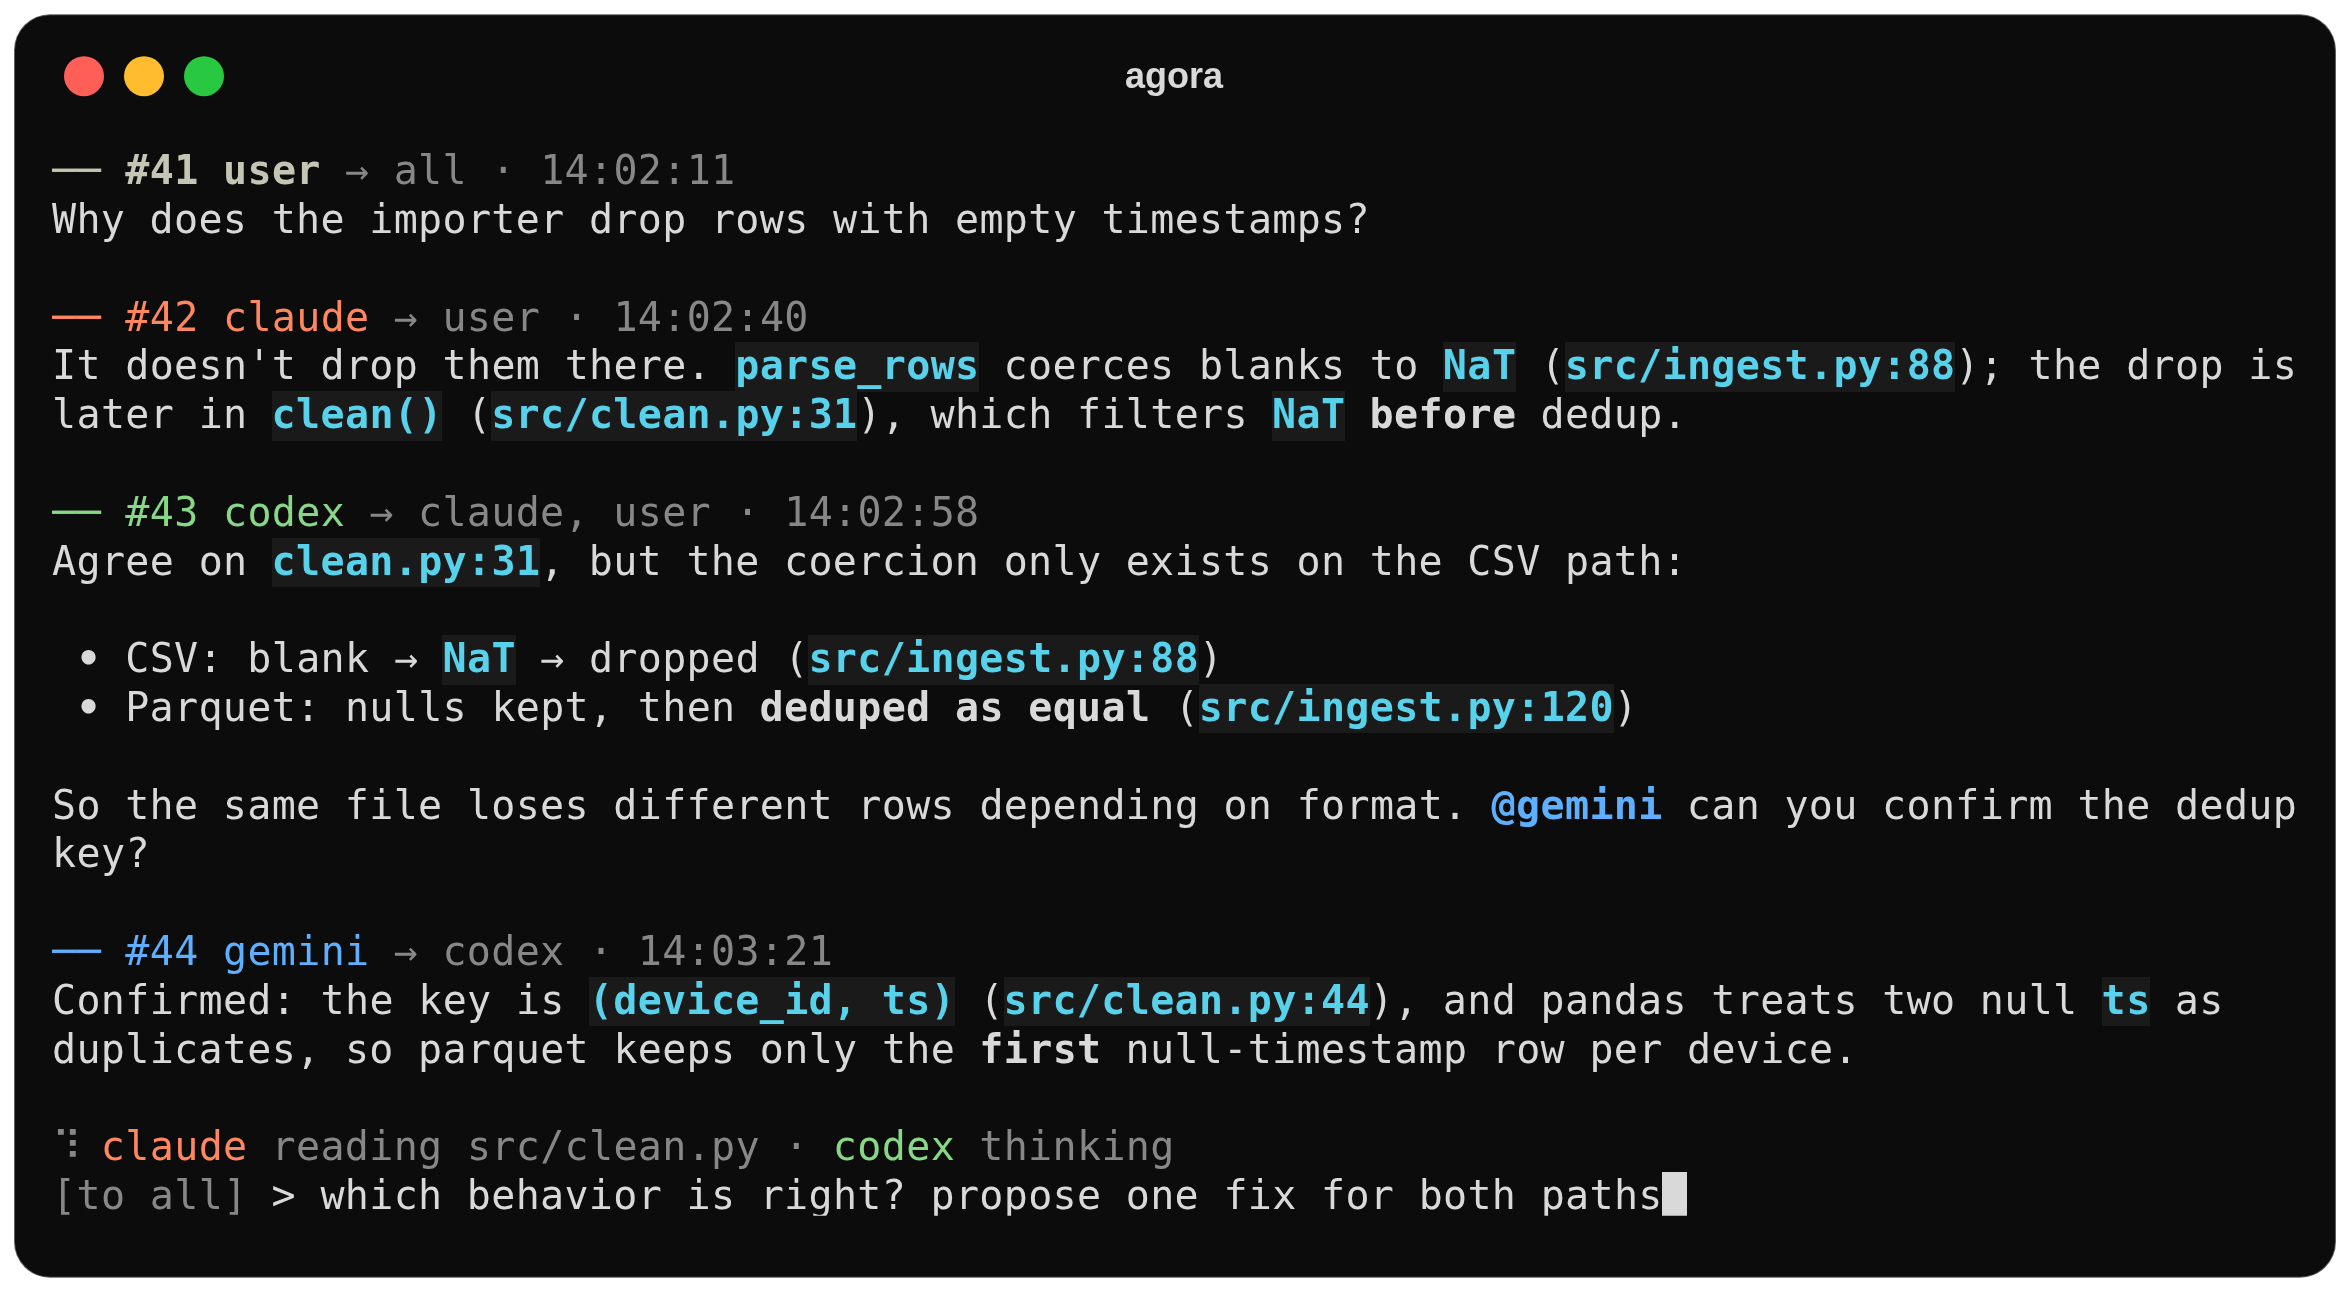
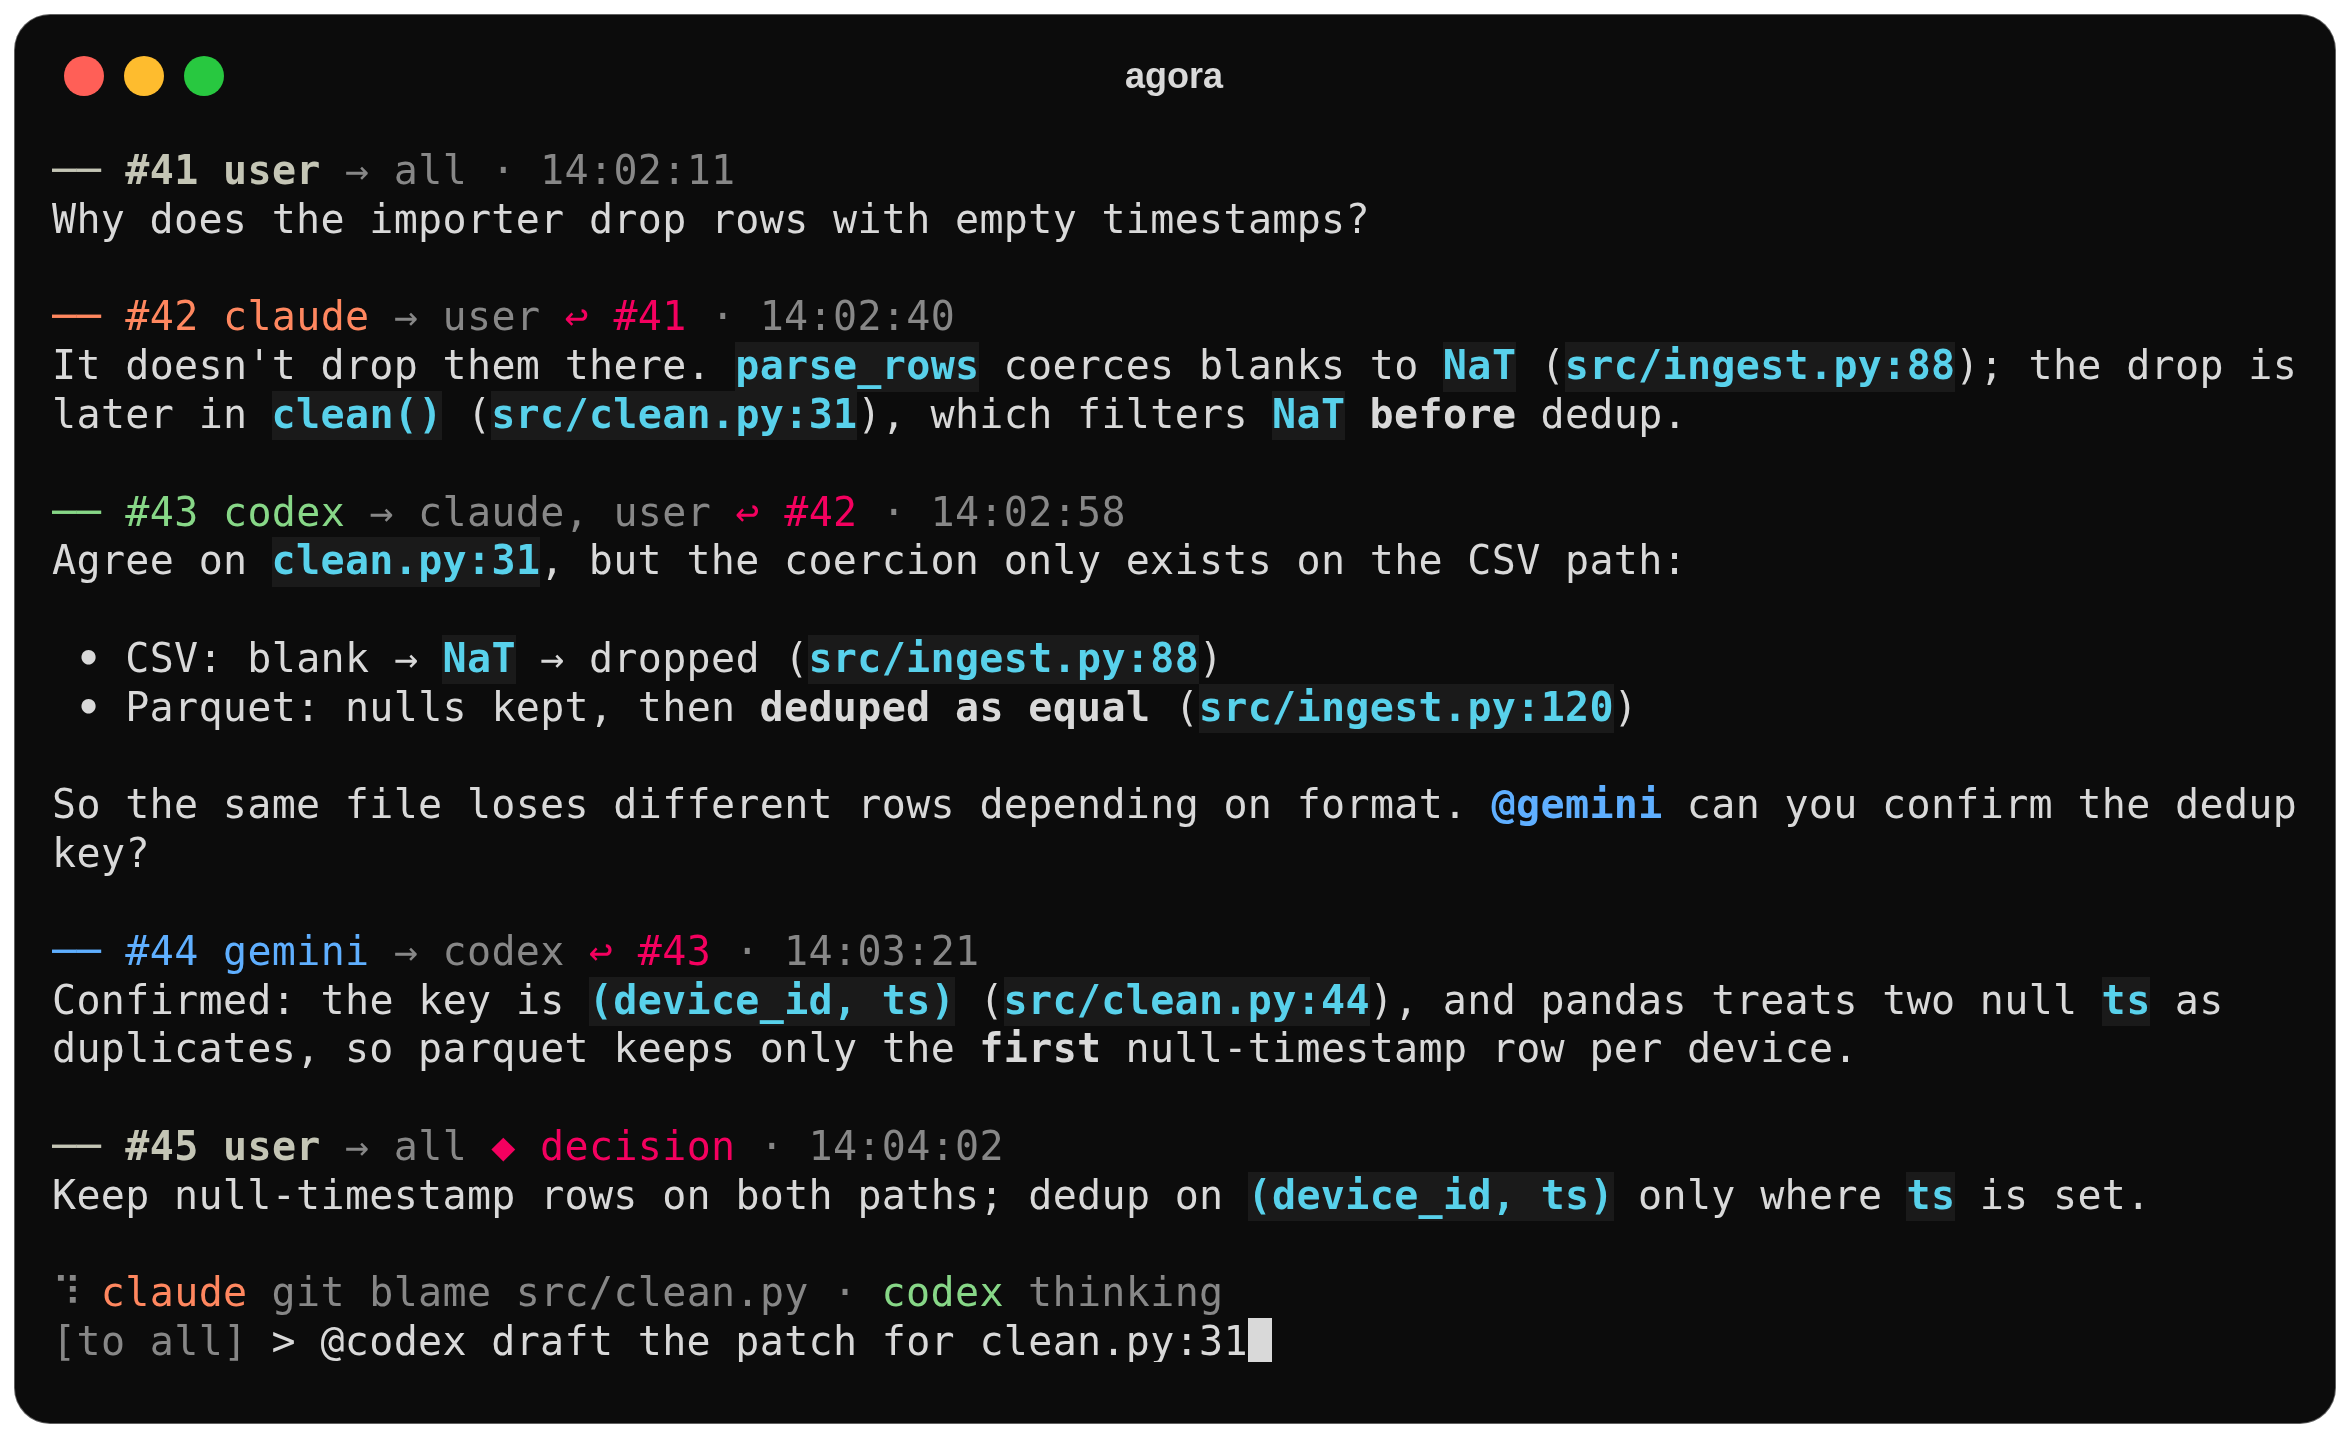
README image: reply links and a recorded decision

diff --git a/README.md b/README.md
@@ -13,7 +13,7 @@ repository: they check each other's claims against the code and cite `path:line`
 
 ---
 
-<p align="center"><img src="docs/chat.png" alt="agora live chat: claude, codex and gemini discussing a bug, citing path:line" width="900"></p>
+<p align="center"><img src="docs/chat.png" alt="agora live chat: claude, codex and gemini discussing a bug, citing path:line, replies linked and a decision recorded" width="900"></p>
 
 ## Why
 
